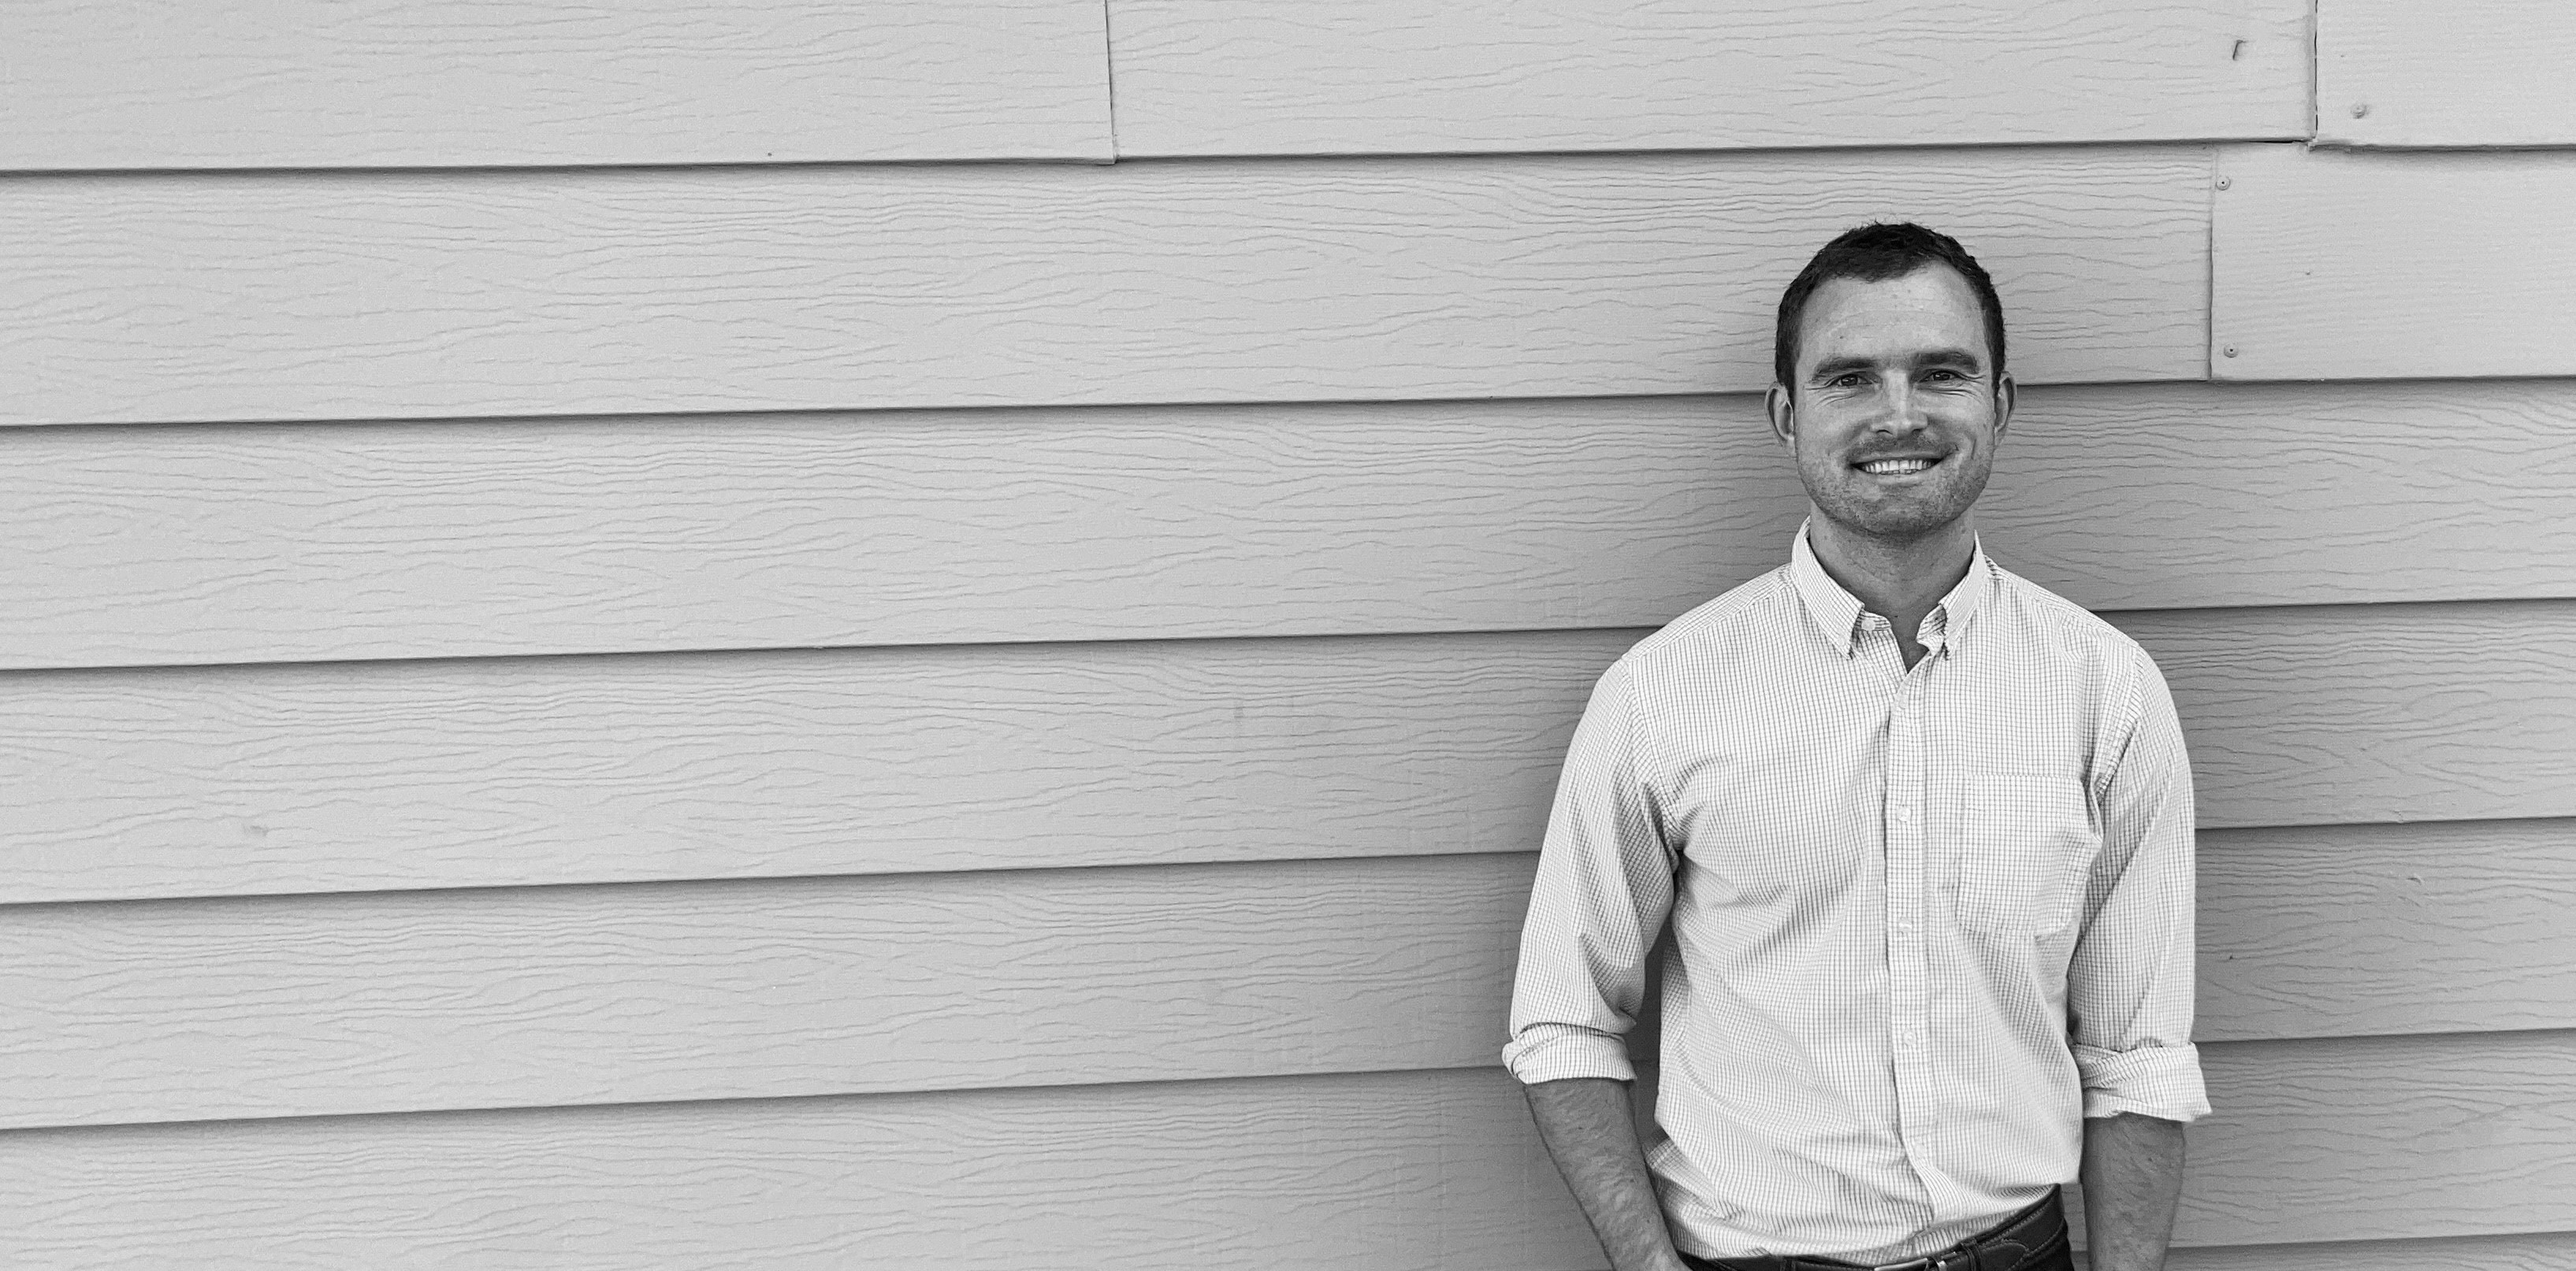
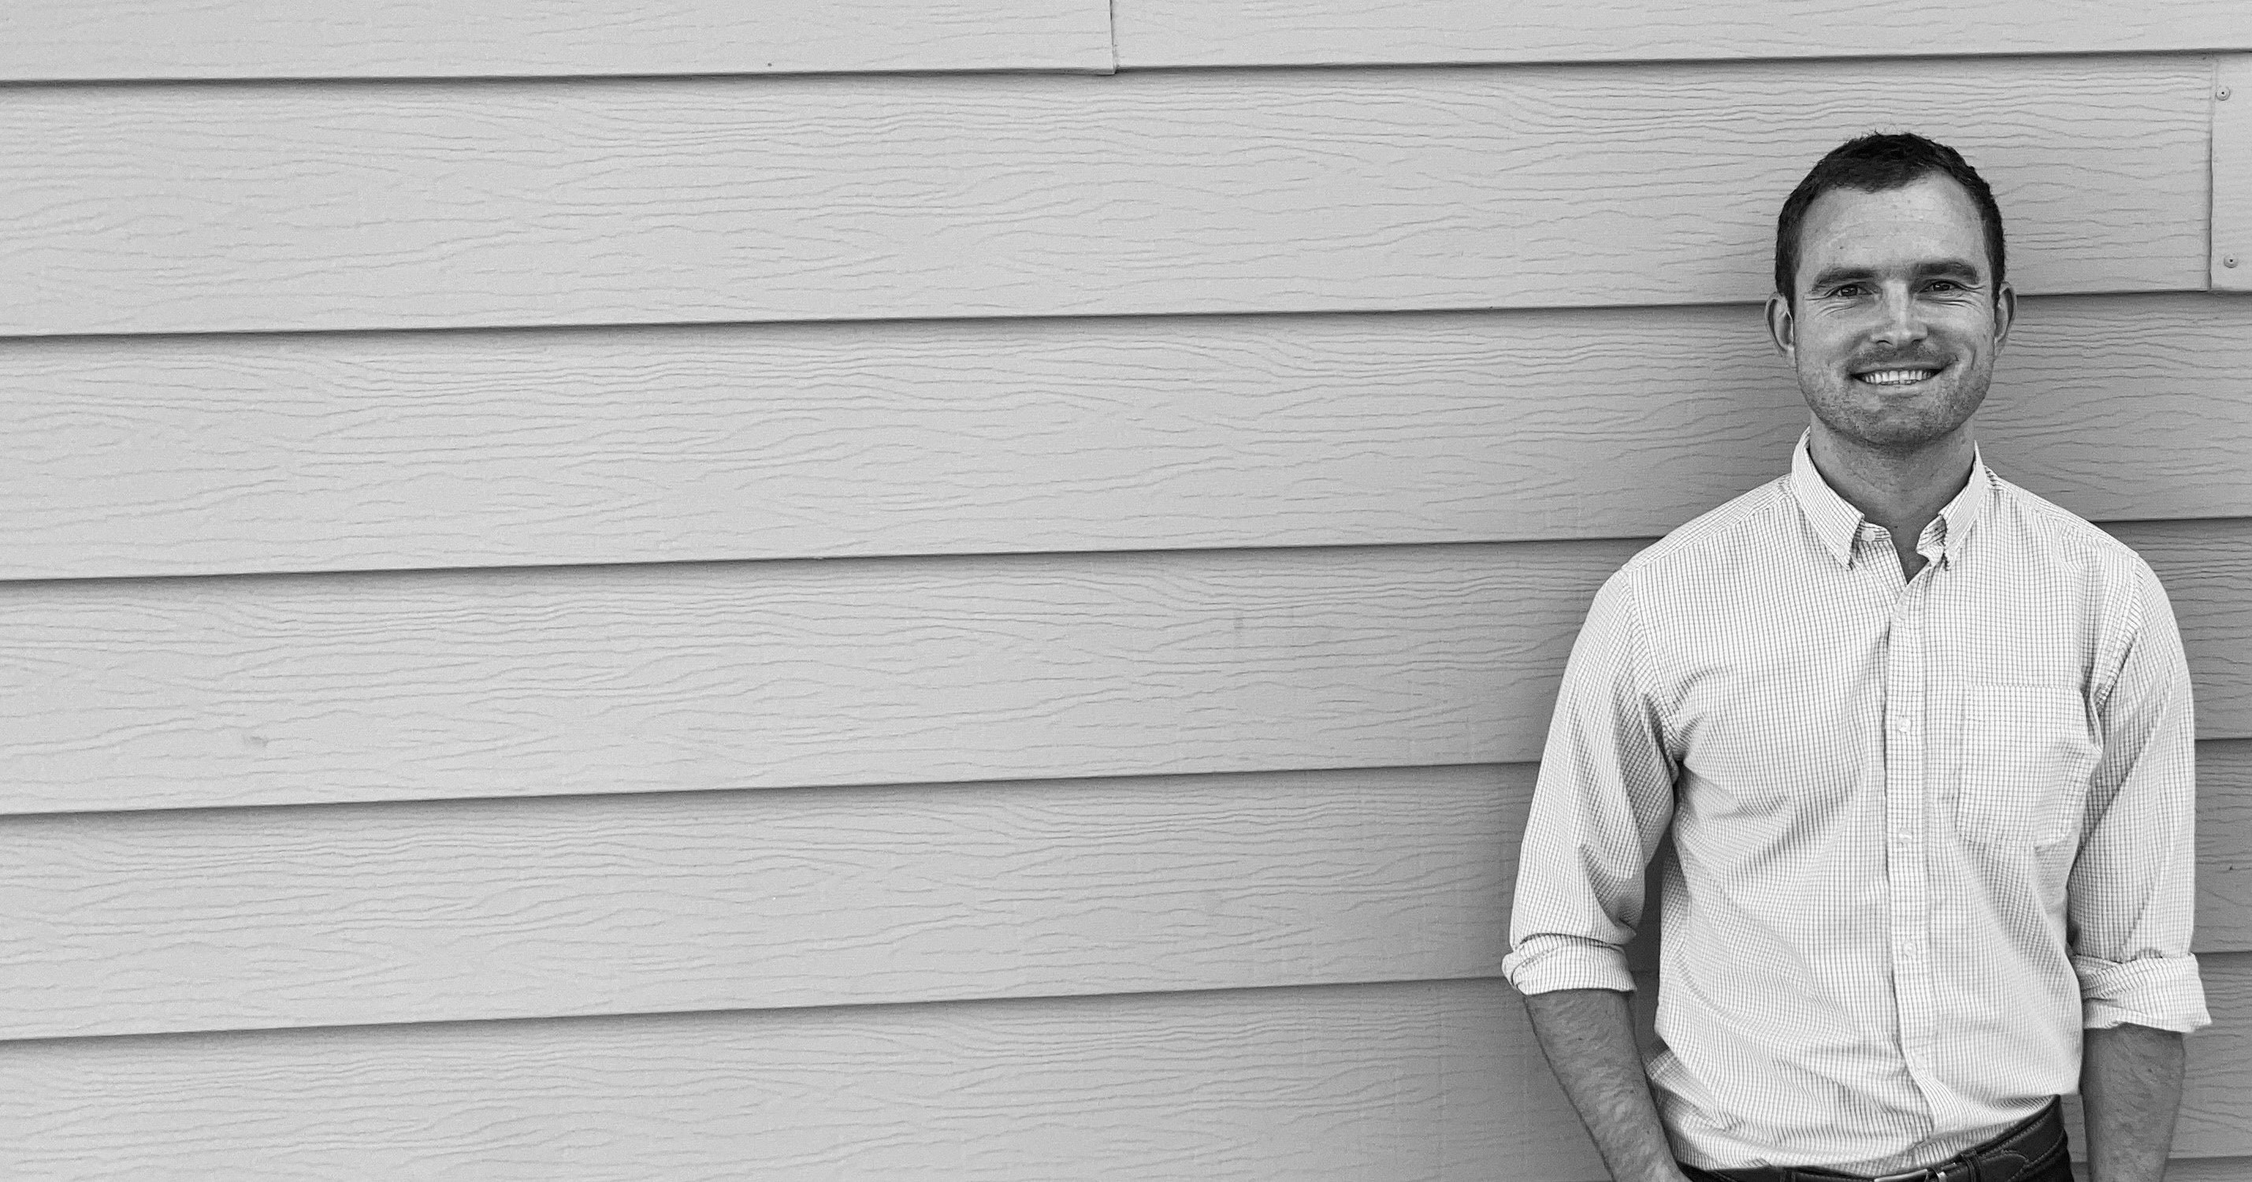
fixed home image

diff --git a/src/Components/Home.js b/src/Components/Home.js
@@ -10,7 +10,7 @@ const useStyles = makeStyles((theme) => ({
     backgroundImage: `url(/images/home2.jpg)`,
     height: "103vh",
     backgroundSize: "cover",
-    backgoundPosition: "center right"
+    backgroundPosition: "center right"
   },
   overlay: {
     zIndex: 1,
